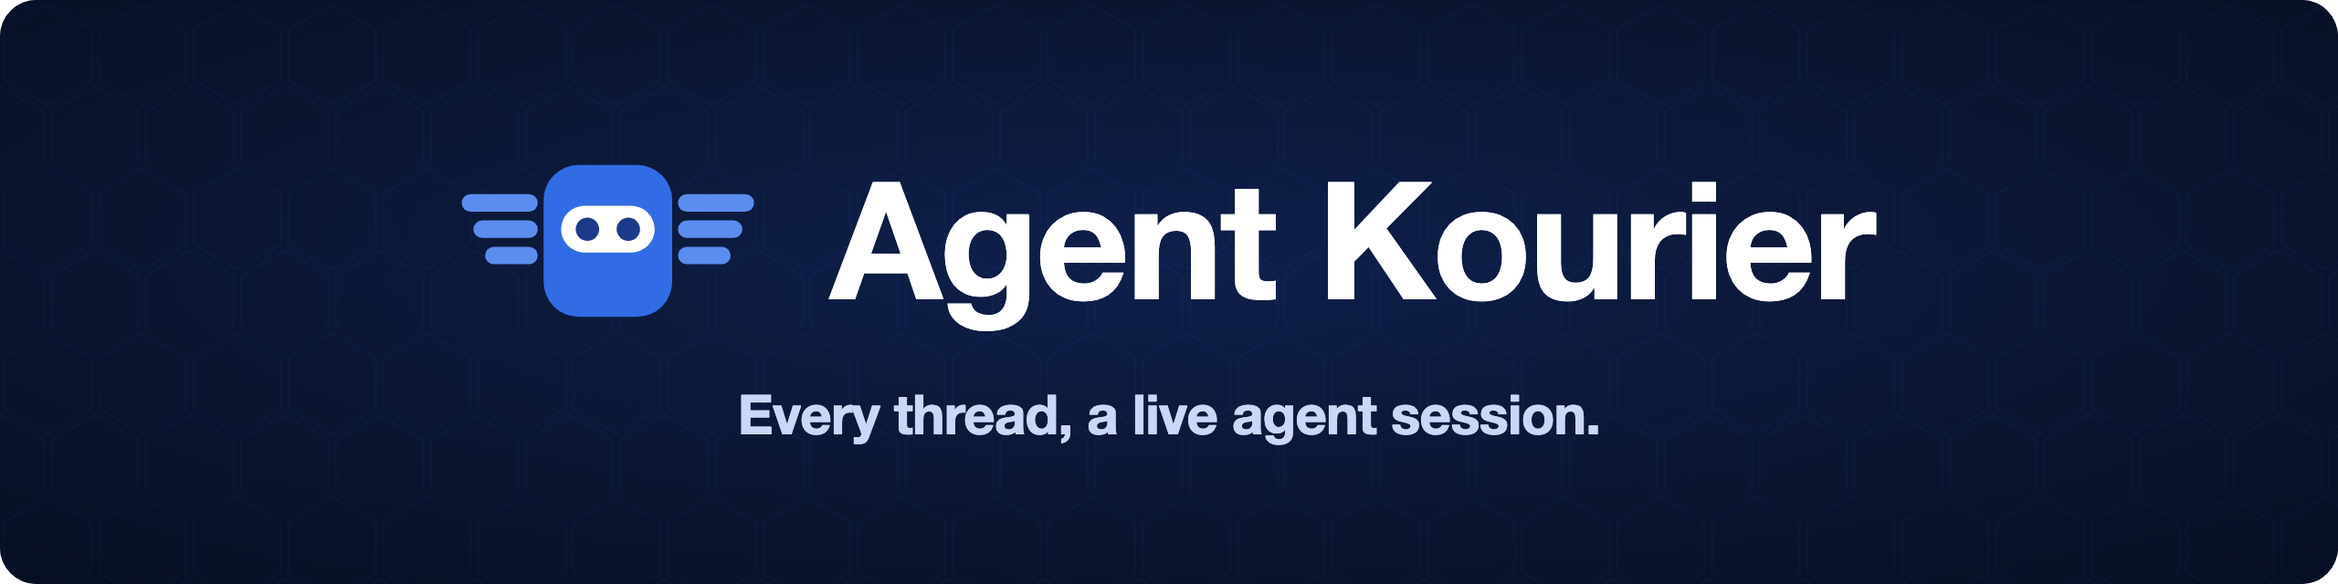
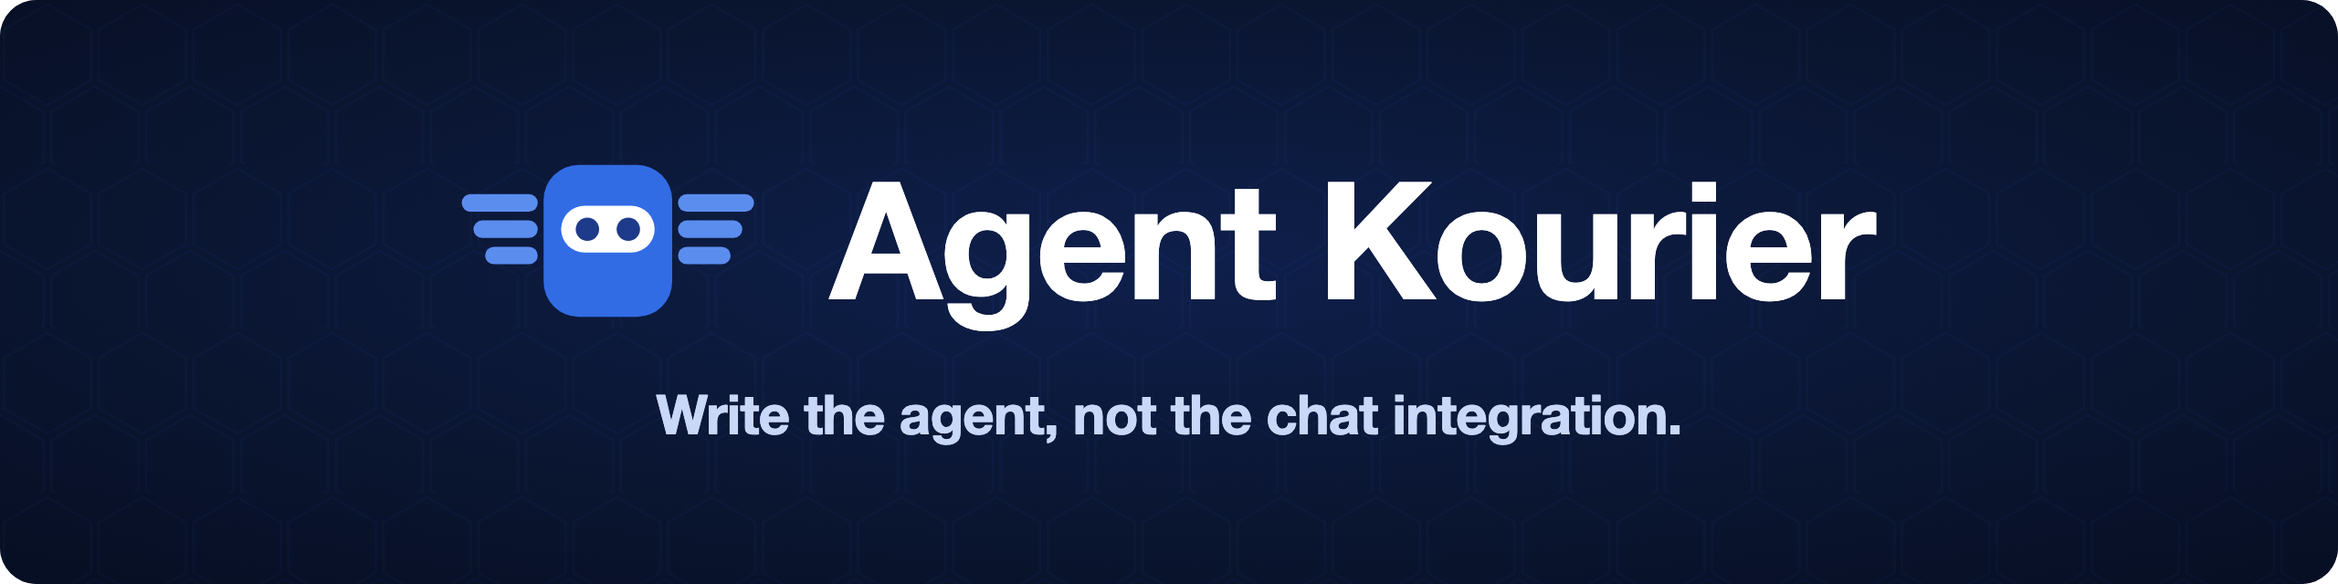
docs: lead with what Agent Kourier saves an agent builder
Use one headline everywhere: "Write the agent, not the chat integration."
It goes in the README banner and its alt text, the docs home hero, the
home page description and site_description. The banner PNG is
re-rendered from its SVG master in headless Chrome, which reproduces
the previous PNG from the previous SVG.

Frame the pitch around team chat, with Slack as the platform supported
today. The chat layer is one interface (internal/chat/platform.go) that
the Slack adapter passes the conformance suite against.

The README gains "What Agent Kourier handles" and "For platform teams".
Each claim was checked against the code: thread TTL, queued replies,
acknowledgment reaction, approvals and approver groups, the outbox,
feedback votes and their metric labels, audit actors, and one
ChatConnection per Slack app.

Move caveats out of the README to the pages that already hold them:
the streamed-reply crash window, the kagent OIDC session identity, the
Alertmanager title shape and bot ID, the kagent pod-certificate
prerequisites, the HA detail and the AX setup. Connect a kagent agent
gains the EKS 1.37 note from the README. That note describes upstream
behaviour and is not verified in this repository.

Changed region(s): [[0.2812, 0.6562, 0.7188, 0.7812]]

diff --git a/docs/stylesheets/brand.css b/docs/stylesheets/brand.css
@@ -390,6 +390,14 @@
   letter-spacing: -0.03em;
   line-height: 1;
 }
+.md-typeset .ak-hero__headline {
+  margin: 0;
+  max-width: 40rem;
+  font-size: 1.6rem;
+  font-weight: 600;
+  letter-spacing: -0.02em;
+  line-height: 1.25;
+}
 .md-typeset .ak-hero__pitch {
   margin: 0;
   max-width: 40rem;

diff --git a/README.md b/README.md
@@ -1,19 +1,18 @@
 <h1 align="center">
-  <img src="docs/brand/assets/github/readme-banner-2560x640.png" alt="Agent Kourier: every thread, a live agent session." width="100%">
+  <img src="docs/brand/assets/github/readme-banner-2560x640.png" alt="Agent Kourier: write the agent, not the chat integration." width="100%">
 </h1>
 
-<p align="center"><strong>Declarative chat broker for Kubernetes agents.</strong></p>
+<p align="center">A Kubernetes-native broker between team chat and streaming A2A agents. Slack today; more platforms planned.</p>
 
-Agent Kourier connects Kubernetes agents to Slack without adding Slack-specific code to
-each agent. It carries messages and alerts to a supported streaming A2A endpoint and
-brings the agent's answers back to the same thread. Developers connect an agent to a
-channel through a declarative `Binding`.
+Agent Kourier runs in your cluster between your team's chat and your agents. A `Binding`
+connects a channel to an agent that serves streaming A2A, and Agent Kourier handles the
+chat side: a session per thread, streamed replies, questions to people, investigations
+started by alerts, and recovery after a restart or failover. The agent needs no chat code.
+It keeps its tools and task logic.
 
-Connecting an agent to Slack adds work beyond building the agent itself: handling Slack
-events, tracking threads, formatting replies, and recovering conversations after a restart.
-Repeating that integration for each agent means maintaining the same messaging code in
-multiple places. Agent Kourier handles that work in a shared broker. The agent owns its
-tools and task logic; the broker owns the Slack connection and conversation delivery.
+Slack is the supported platform today. Each platform is an adapter behind one chat
+interface and its conformance suite, and the resource API takes a second platform without
+breaking a Slack `Binding`. Agents speak only A2A, so a new platform needs no change to them.
 
 [Documentation](https://agentkourier.dev) · [Try it in a kind sandbox](hack/kind/sandbox/README.md) ·
 [Architecture](docs/explanation/architecture.md) · [Specification](spec.md)
@@ -36,37 +35,52 @@ Alertmanager     FIRING (1) - PaymentsApiErrorRate
                  Nothing else in the Deployment differs from the previous revision.
 ```
 
-The alert's thread is the agent session. People in the channel reply in it without
-a mention. A repeat of the same alert attaches to the thread, and its resolve posts
-a note there.
+The answers come from the agent. The alert's thread is the agent session. People in the
+channel reply in it without a mention. A repeat of the same alert attaches to the thread,
+and its resolve posts a note there.
 
-## Why a broker
+## What Agent Kourier handles
 
-- **Connect agents without writing Slack handlers.** A `Binding` connects a channel to
-  an agent that exposes a supported streaming A2A endpoint. Multiple bindings share
-  the broker's Slack connection and conversation handling.
-- **Conversations survive a restart.** Agent Kourier persists sessions, queued replies and
-  pending questions. After a restart it continues each conversation where it stopped.
-- **A crash does not repeat a post.** Posts go through a durable outbox. After a
-  crash between posting and recording, Agent Kourier finds the message it already posted
-  and does not post it again. A streamed reply is the exception: if Agent Kourier dies
-  between starting a stream and recording it, the partial stream stays and the
-  recovered turn posts the whole answer as a new message.
-- **Questions are answered in the thread.** With `interactions.askUser` set on the
-  `Binding`, Agent Kourier renders the agent's question in the thread and resumes the same
-  agent task with the answer.
-- **Alerts become conversations.** A `botMessage` trigger reads the alerts a bot
-  posts to the channel, named by its bot ID, and starts an investigation in each
-  alert's thread, with a cooldown per alert, a rate limit and a daily cap. Every
-  trigger is written in full, and the docs have a worked one for Alertmanager. Agent
-  Kourier only reads what is already posted, so your alerts arrive as before, whether or
-  not Agent Kourier is running.
-- **Any streaming A2A backend.** A kagent agent, an agent running in Google AX and any
-  other A2A 1.0 or 0.3 agent whose card advertises streaming use the same `Binding`.
-  Backend-specific behaviour lives in a dialect.
-- **Teams own their bindings.** A `Binding` is namespaced. The platform team runs the
-  broker and the shared Slack connection. An application team wires its own channel
-  to its own agent.
+Without a broker, each of these is code in every agent that talks to chat:
+
+- **Threads as sessions.** Each thread keeps one agent context for 90 days after its last
+  activity by default. A reply anywhere in the thread continues it.
+- **Replies during a turn.** Agent Kourier queues a reply sent while the agent works and
+  sends it, in order, when the task ends. A reaction shows that it accepted the reply.
+- **Streamed output.** With `output: live`, the answer streams into one chat message, with
+  tool calls shown as status lines where the backend reports them.
+- **Questions and approvals.** With `interactions.askUser`, the agent's question appears in
+  the thread and the answer resumes the same task. With kagent, a tool call can wait for an
+  Approve or Deny press, optionally limited to Slack user groups.
+- **Restart recovery.** Agent Kourier stores sessions, queued replies and pending questions,
+  and posts through a durable outbox, so a crash does not repeat a post
+  ([one exception](docs/explanation/delivery.md#the-one-window)).
+- **Suspended agents.** Agent Kourier holds the Slack connection and the thread while an
+  agent is suspended or scaled down, and calls the agent when the next turn arrives.
+- **Alert investigations.** A trigger reads the alerts a bot already posts to the channel
+  and starts an investigation in each alert's thread, with a cooldown per alert, a rate
+  limit and a daily cap. There is no webhook, so alerts reach people whether or not Agent
+  Kourier is running.
+- **Feedback.** An investigation's final message has useful and not-useful buttons, and
+  Prometheus counts the votes per agent and alert name.
+- **Backend choice.** kagent, an agent in Google AX, and any A2A 1.0 or 0.3 agent whose card
+  advertises streaming use the same `Binding`. Changing the runtime leaves the Slack
+  configuration as it is.
+
+## For platform teams
+
+The platform team installs Agent Kourier and owns the shared resources: the chat app (a
+`ChatConnection`), the agent backends (`AgentBackend`), and the namespaces allowed to use
+each. Application teams connect their own agents to their own channels with a namespaced
+`Binding`, committed next to the agent's manifests.
+
+- **One chat app.** Every Binding that uses a `ChatConnection` posts through it, so there is
+  one set of chat credentials (on Slack, one app's tokens) to review and rotate, not one per
+  agent.
+- **One audit log.** It records each agent call and approval decision with the Slack user,
+  when a person started it, and the service identity it ran as.
+- **Standard operations.** A Helm chart, Prometheus metrics, optional OpenTelemetry traces,
+  and two replicas on Postgres with leader election and fencing.
 
 ## How it works
 
@@ -152,34 +166,18 @@ uses a service identity for agent calls; individual Slack users do not supply th
 backend's authorization identity.
 
 This lets an alert start an investigation and several channel members continue it
-under the same backend account, without each supplying a backend token. In the tested
-kagent 1.0.0-alpha5 OIDC setup, a session accepts requests only from the identity that created it, so the Binding's
-identity must not change while its sessions are open.
-
+under the same backend account, without each supplying a backend token.
 [Create the Binding identity](docs/how-to/create-binding-identity.md) explains how to choose a user ID or obtain
-and store an issued token, including a Dex example. Agent Kourier does not create accounts or mint tokens.
+and store an issued token, and why the identity must not change while sessions are open.
+Agent Kourier does not create accounts or mint tokens.
 
-To have the agent investigate the alerts a bot posts to that channel, list the
-triggers in the Binding's `chat` block. A `botMessage` trigger is written in full: its
-`match` and `extract` regexes, `thread` rules, `limits` and `promptTemplate`. It must set
-`limits`, both `rateLimit` and `maxRunsPerDay`, or the Binding does not load.
+To have the agent investigate the alerts a bot posts to that channel, add a
+`botMessage` trigger to the Binding's `chat` block. A trigger is written in full, with its
+own regexes, thread rules, limits and prompt.
 [Investigate Alertmanager alerts](docs/how-to/investigate-alertmanager-alerts.md) has a
-complete trigger for Alertmanager's Slack receiver, with a comment on each regex;
-[Start investigations from any bot's messages](docs/how-to/any-bot-trigger.md) shows how to write
-one for another bot. `from.id` is the `bot_id` carried by the alert
-messages themselves, which starts with `B`. It is not the Slack app ID, which starts
-with `A`, and Agent Kourier rejects a name. The dry run in the
-[sandbox guide](hack/kind/sandbox/README.md) prints each message's sender, which is
-one way to read it. The [trigger reference](docs/reference/chat-triggers.md) has
-the fields.
-
-The Alertmanager trigger matches one message shape, and a message of another shape starts no
-investigation. It needs a title that reads `FIRING (n) - <alertname>` or
-`RESOLVED - <alertname>` (optionally behind a bracketed tag such as `[prod] `), and Alertmanager's default fallback
-text, which begins `[FIRING:n]`. Alertmanager's default Slack title begins `[FIRING:1]` too, so a
-receiver that keeps the default title does not match. Either set the receiver's
-title to the shape above, or change the trigger's `match` and `extract` regexes for
-your own template.
+complete one for Alertmanager's Slack receiver, including the title it expects;
+[Start investigations from any bot's messages](docs/how-to/any-bot-trigger.md) covers
+other bots, and the [trigger reference](docs/reference/chat-triggers.md) has the fields.
 
 These are **configuration files**, loaded from
 `AGENTKOURIER_CONFIG_DIR`, usually through a mounted ConfigMap. They are not yet live
@@ -194,39 +192,19 @@ ConfigMap, Secrets, and Deployment; CRD/controller reconciliation is planned.
 | Chat platform | Slack over the Events API (HTTP) | Planned |
 | Chat platform | Slack direct messages | Planned |
 | Chat platform | Other platforms, through the `chat.Platform` interface and its conformance suite | Planned |
-| Agent backend | kagent 1.0, `kagent-v1` dialect, with structured questions and optional Slack tool approvals. Tested against 1.0.0-alpha5. Approval prompts are enabled per Binding; a disabled approval is denied through kagent with a notice. Broker end-to-end tests with fake Slack cover approve, deny, timeout, group authorization, mixed decisions and stale presses. Needs a cluster that serves the pod-certificate APIs (see below) | Implemented |
+| Agent backend | kagent 1.0, `kagent-v1` dialect, with structured questions and optional Slack tool approvals. Tested against 1.0.0-alpha5. Needs a cluster that serves the pod-certificate APIs, which managed EKS through 1.36 cannot; see [Connect a kagent agent](docs/how-to/connect-kagent.md) | Implemented |
 | Agent backend | Any A2A agent, 1.0 or 0.3, whose card advertises streaming and a JSON-RPC interface, `a2a` dialect. Questions arrive as text | Implemented |
 | Agent backend | kagent 0.9.x, `a2a` dialect over A2A 0.3. Tested against 0.9.4 on a real cluster. It has no task list, so a resend can run a turn twice, and the dialect renders no tool calls as step cards. See [Connect a kagent agent](docs/how-to/connect-kagent.md) | Implemented |
 | Agent backend | Google AX, through an ADK agent in an AX Task and the `a2a` dialect. See [examples/ax](examples/ax/README.md) | Experimental |
 | Alert source | Alertmanager, through the message it posts to Slack (`botMessage` trigger, written in full) | Implemented |
 | Alert source | Any other bot that posts to the channel, with a `botMessage` trigger written in full; not exercised in the sandbox or the end-to-end tests | Implemented |
-| Operations | High availability: two replicas on Postgres, one leader elected by a Kubernetes Lease, epoch fencing in Postgres and chat writes and agent sends fenced on the replica, a standby that takes over. The failover test (kill the leader mid-turn, mid-post and mid-storm, freeze it past its Lease) checks that every reply appears once; a call already in flight in a frozen leader can still repeat | Implemented |
+| Operations | High availability: two replicas on Postgres, one leader elected by a Kubernetes Lease, fencing, and a standby that takes over. See [High availability and failover](docs/explanation/high-availability.md) | Implemented |
 
 The common interface to an agent is streaming A2A over JSON-RPC, version 1.0 or 0.3, and Agent Kourier
 rejects an agent whose card does not advertise streaming. A team can change or add
 a runtime and keep the same messaging configuration. What a thread can do still
 depends on what the backend exposes. See [backend reference](docs/reference/agentbackend.md) for
 the contract.
-
-### Running kagent 1.0 off kind
-
-kagent 1.0 runs every agent session on Agent Substrate, and Substrate needs the
-pod-certificate APIs: the `ClusterTrustBundle`, `ClusterTrustBundleProjection` and
-`PodCertificateRequest` feature gates and `certificates.k8s.io/v1beta1`. They are off by
-default through Kubernetes 1.36, and the pinned Substrate (0.3.0-alpha1) still needs
-`certificates.k8s.io/v1beta1` on 1.37. Managed EKS through 1.36 cannot enable them, and EKS 1.37 serves the GA `v1` APIs but not `v1beta1`. The full and AX kind tiers
-turn them on, so a cluster that kind runs fine may still not run kagent 1.0. Check the
-target cluster first:
-
-```sh
-kubectl api-resources --api-group=certificates.k8s.io   # lists clustertrustbundles and podcertificaterequests
-kubectl api-versions | grep certificates.k8s.io/v1beta1
-```
-
-Without them, use an agent that does not need Substrate, through the `a2a` dialect.
-kagent 0.9.x is one. It speaks A2A 0.3, which the dialect reads. See
-[Connect a kagent agent](docs/how-to/connect-kagent.md) for the URL form and the
-limits.
 
 ## Status
 
@@ -246,67 +224,22 @@ cluster, follow [Install with Helm](docs/how-to/install-with-helm.md), and see
 ### High availability
 
 On Postgres, Agent Kourier runs as two replicas, active/passive. With SQLite it is one
-replica, and the chart refuses more.
-
-| Part | What it does |
-|---|---|
-| Leader election | A Kubernetes Lease picks the leader, which does all the work: Socket Mode, turns, the outbox, sweeps. A standby takes the Lease about 15 s after the leader's last renewal (a lease duration), or seconds after the leader stops on a signal and hands it over |
-| Fencing | Every write to Postgres checks the leader's epoch, and every write to Slack checks the replica's own Lease clock, so a deposed or paused leader's writes are refused and it exits |
-| Standby | Ready, serving health and metrics, with its config and Secret caches warm; it does no work and opens no Slack connection |
-| Takeover | The same recovery as a restart: queued turns resume, the outbox adopts what was already posted, and a stream the old leader left open is replaced with the whole answer |
-| Drains and spreading | An optional PodDisruptionBudget (`podDisruptionBudget.enabled`, off by default; `minAvailable: 1` keeps a drain from taking both replicas), and the render refuses a budget that would block every drain. Anti-affinity, `priorityClassName`, `nodeSelector` and `tolerations` go in the chart's values; the chart sets no spread of its own |
-
-See [High availability and failover](docs/explanation/high-availability.md) for how it
-works and what a failover can still repeat, and
-[Run two replicas](docs/how-to/high-availability.md) to set it up and drill a failover.
+replica, and the chart refuses more. The leader does all the work; the standby serves
+health and metrics, opens no Slack connection, and takes over about 15 s after the
+leader's last renewal, with the same recovery as a restart. Every write to Postgres and
+to Slack is fenced, so a deposed leader's writes are refused.
+[High availability and failover](docs/explanation/high-availability.md) explains how it
+works and what a failover can still repeat;
+[Run two replicas](docs/how-to/high-availability.md) sets it up and drills a failover.
 
 ## Using Google AX
 
-Agent Kourier does not call AX's own API. It speaks A2A to an agent that runs inside an AX
-Task, through AX's router, with the generic `a2a` dialect. What that needs:
-
-- **Your own A2A agent.** AX ships no A2A agent, so you build and run one as an AX
-  Task. [`examples/ax`](examples/ax/README.md) is the reference: an ADK agent on
-  Bedrock Haiku.
-- **The agent verifies Agent Kourier's token.** Agent Kourier sends the Binding's service ID
-  token as a bearer token. With kagent the front door checks it; with AX nothing
-  does unless your agent does (the reference checks issuer, audience and subject),
-  or you put an OIDC-verifying proxy in front of the router.
-- **A TLS gateway in front of the router** that forwards only the A2A endpoint and
-  card and fixes the actor header, reachable from Agent Kourier only.
-- **Questions are plain text.** The agent's question appears in the thread and a
-  person answers by replying there or with the answer form. Structured tool approvals and tool step cards
-  are kagent-only.
-- **AX's lifecycle stays with the operator.** Agent Kourier creates, pauses or resumes no
-  task.
-
-The `AgentBackend` points at the gateway, and the header names the actor
-(`<atespace>/<actor>`). Agent Kourier fetches the agent's card at the URL plus
-`/.well-known/agent-card.json`:
-
-```yaml
-apiVersion: agentkourier.dev/v1alpha1
-kind: AgentBackend
-metadata:
-  name: ax
-  namespace: agent-kourier-system
-spec:
-  dialect: a2a
-  url: https://ax-gateway.example.internal/a2a # the exact JSON-RPC endpoint, used as written: a trailing
-                                               # slash is kept, and no redirect is followed (kagent 0.9.x
-                                               # answered a POST without its slash with a 307 where this was measured)
-  headers:
-    - name: ate-target-actor
-      value: agent-kourier-ax/assistant
-```
-
-The [AX example guide](examples/ax/README.md) has the deployment steps (the gateway,
-egress and credential injection, the template overlay) and an acceptance procedure
-to run before a real channel. The AX kind tier (`make e2e-ax-up`, `make e2e-ax`)
-runs the shared Slack scenarios against a real AX and Substrate install with a
-deterministic model; see [its guide](hack/kind/ax/README.md). Support is
-experimental: a real AX deployment's pause and resume is covered by the acceptance
-procedure, not yet by a production deployment.
+Agent Kourier speaks A2A to an agent you run inside an AX Task, through AX's router, with
+the generic `a2a` dialect; it does not call AX's own API or manage the Task.
+[Connect an agent on Google AX](docs/how-to/connect-ax.md) lists what that needs (your
+own A2A agent, token verification, a TLS gateway) and what a thread can do there, and the
+[AX example](examples/ax/README.md) is a reference agent with deployment steps and an
+acceptance procedure. Support is experimental.
 
 ## Development
 

diff --git a/docs/index.md b/docs/index.md
@@ -1,7 +1,8 @@
 ---
 description: >-
-  Connect Kubernetes agents to Slack without adding Slack-specific code to each agent.
-  Agent Kourier handles messaging and conversation delivery through declarative bindings to streaming A2A agents.
+  Write the agent, not the chat integration. Agent Kourier connects streaming A2A agents to team chat and handles
+  threads, streamed replies, questions, alert investigations, restarts and failover. Slack today; more platforms
+  planned.
 hide:
   - navigation
   - toc
@@ -15,9 +16,11 @@ hide:
 <h1 class="ak-hero__name">Agent Kourier</h1>
 </div>
 
-<p class="ak-hero__pitch">Connect your Kubernetes agents to Slack without writing Slack handlers for each agent.
-Agent Kourier carries messages and alerts to a supported streaming A2A endpoint and brings answers back to the same
-thread. Connect an agent to a channel with a declarative Binding.</p>
+<p class="ak-hero__headline">Write the agent, not the chat integration.</p>
+
+<p class="ak-hero__pitch">A Binding connects a chat channel to an agent that serves streaming A2A. Agent Kourier
+handles the chat side: a session per thread, streamed replies, questions to people, investigations started by alerts,
+and recovery after a restart or failover. Slack is supported today, and other chat platforms are planned.</p>
 
 <div class="ak-hero__actions">
 <a class="md-button md-button--primary" href="tutorials/first-agent-in-slack/">Try it in a kind sandbox</a>
@@ -25,16 +28,17 @@ thread. Connect an agent to a channel with a declarative Binding.</p>
 </div>
 </div>
 
-## Build the agent, configure its Slack connection
+## What Agent Kourier handles
 
-Handling Slack events, tracking threads, formatting replies, and recovering conversations after a restart adds work
-beyond the agent's own task logic. Repeating that integration for each agent means maintaining the same messaging code
-in multiple places.
+Without a broker, every agent that talks to chat needs its own code for threads, streaming, questions, restarts and
+alerts. Agent Kourier does that work once for every agent you bind. It keeps a session per thread, queues replies that
+arrive while the agent works, streams the answer into one message, posts the agent's questions in the thread, recovers
+each conversation after a restart, and holds the thread while a suspended agent is not running. The agent keeps its
+tools and task logic.
 
-Agent Kourier handles that work in a shared broker. Your agent owns its tools and task logic; Agent Kourier owns the
-Slack connection and conversation delivery. An agent that already exposes a supported streaming A2A endpoint needs
-configuration to connect to Slack, with no Slack-specific code added to the agent.
-[Why a broker](explanation/why-a-broker.md) explains the separation of responsibilities.
+The platform team runs Agent Kourier and owns the chat app and the agent backends. Each application team connects its
+own agent to its own channel with a namespaced Binding, committed next to the agent's manifests.
+[Why a broker](explanation/why-a-broker.md) explains the split.
 
 <figure class="ak-film">
 <video controls preload="none" playsinline poster="assets/film/agent-kourier-teaser-poster-16x9.jpg" aria-label="Agent Kourier teaser, 20 seconds, narrated">

diff --git a/docs/how-to/connect-kagent.md b/docs/how-to/connect-kagent.md
@@ -11,7 +11,9 @@ Binding's turns reach one of its agents.
     **1. Check the cluster can run it.** kagent 1.0 runs every agent session on Agent Substrate, which needs the
     pod-certificate APIs: the `ClusterTrustBundle`, `ClusterTrustBundleProjection` and `PodCertificateRequest` feature
     gates and `certificates.k8s.io/v1beta1`. They are off by default through Kubernetes 1.36, and managed EKS through 1.36 cannot
-    enable them. From 1.37 the APIs are GA, but `v1beta1` is still off by default, and the pinned Substrate needs it. Check:
+    enable them. From 1.37 the APIs are GA, but `v1beta1` is still off by default, and the pinned Substrate needs it; EKS
+    1.37 serves the GA `v1` APIs but not `v1beta1`. The project's kind tiers turn them on, so a cluster that runs the kind
+    tiers' kagent may still not run it elsewhere. Check:
 
     ```sh
     kubectl api-resources --api-group=certificates.k8s.io   # lists clustertrustbundles and podcertificaterequests
